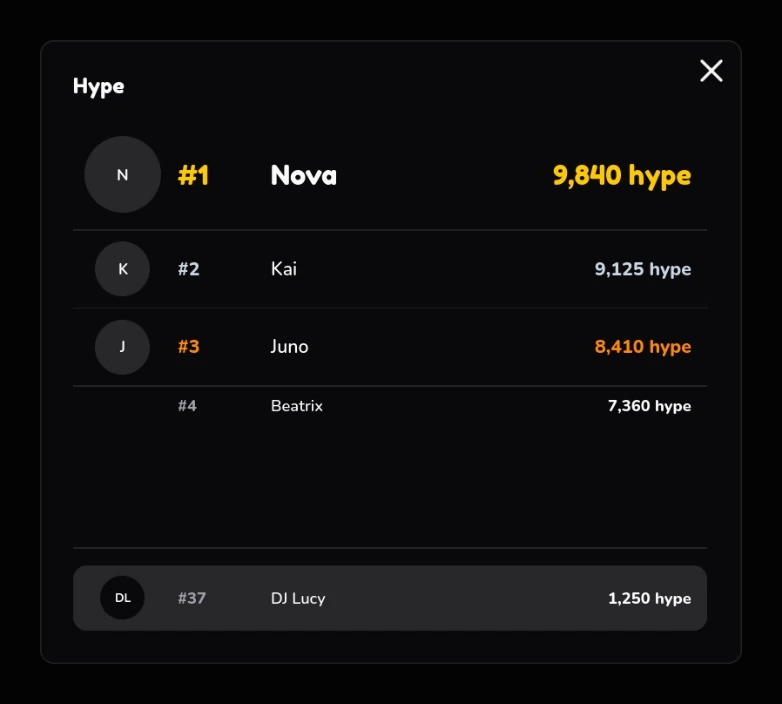
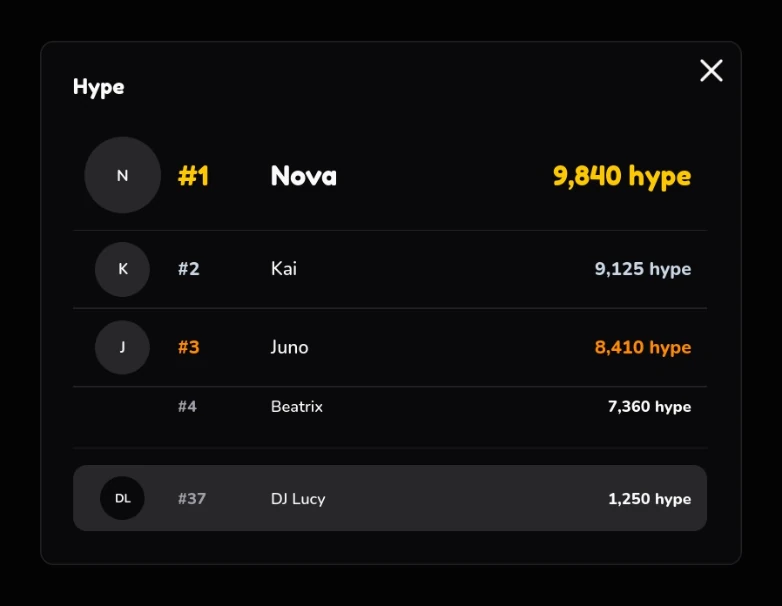
fix(leaderboard): height is the whole board, the pinned row inside it

diff --git a/docs/components/leaderboard.md b/docs/components/leaderboard.md
@@ -43,7 +43,7 @@ Lucy.Leaderboard.new({
 | `loading` | boolean, ref or getter | `false` | | Pulsing rows while the scores load |
 | `placeholders` | number | `5` | | How many pulsing rows |
 | `empty` | string | | | Shown when nobody is on the board |
-| `height` | number, ref or getter | | | The rows scroll in this many pixels, and your row stays under them. The board keeps its size while it loads and fills |
+| `height` | number, ref or getter | | | The whole board is this many pixels tall, your row included. The rows scroll in what your row leaves, so the board keeps its size while it loads and fills |
 | `size` | string | `"md"` | yes | `sm`, `md` or `lg`, for the whole board |
 | `visible` | boolean | `true` | yes | Shows or hides it |
 

diff --git a/plugins/lucy/skills/lucy/references/components/leaderboard.md b/plugins/lucy/skills/lucy/references/components/leaderboard.md
@@ -36,7 +36,7 @@ Lucy.Leaderboard.new({
 | `loading` | boolean, ref or getter | `false` | | Pulsing rows while the scores load |
 | `placeholders` | number | `5` | | How many pulsing rows |
 | `empty` | string | | | Shown when nobody is on the board |
-| `height` | number, ref or getter | | | The rows scroll in this many pixels, and your row stays under them. The board keeps its size while it loads and fills |
+| `height` | number, ref or getter | | | The whole board is this many pixels tall, your row included. The rows scroll in what your row leaves, so the board keeps its size while it loads and fills |
 | `size` | string | `"md"` | yes | `sm`, `md` or `lg`, for the whole board |
 | `visible` | boolean | `true` | yes | Shows or hides it |
 
